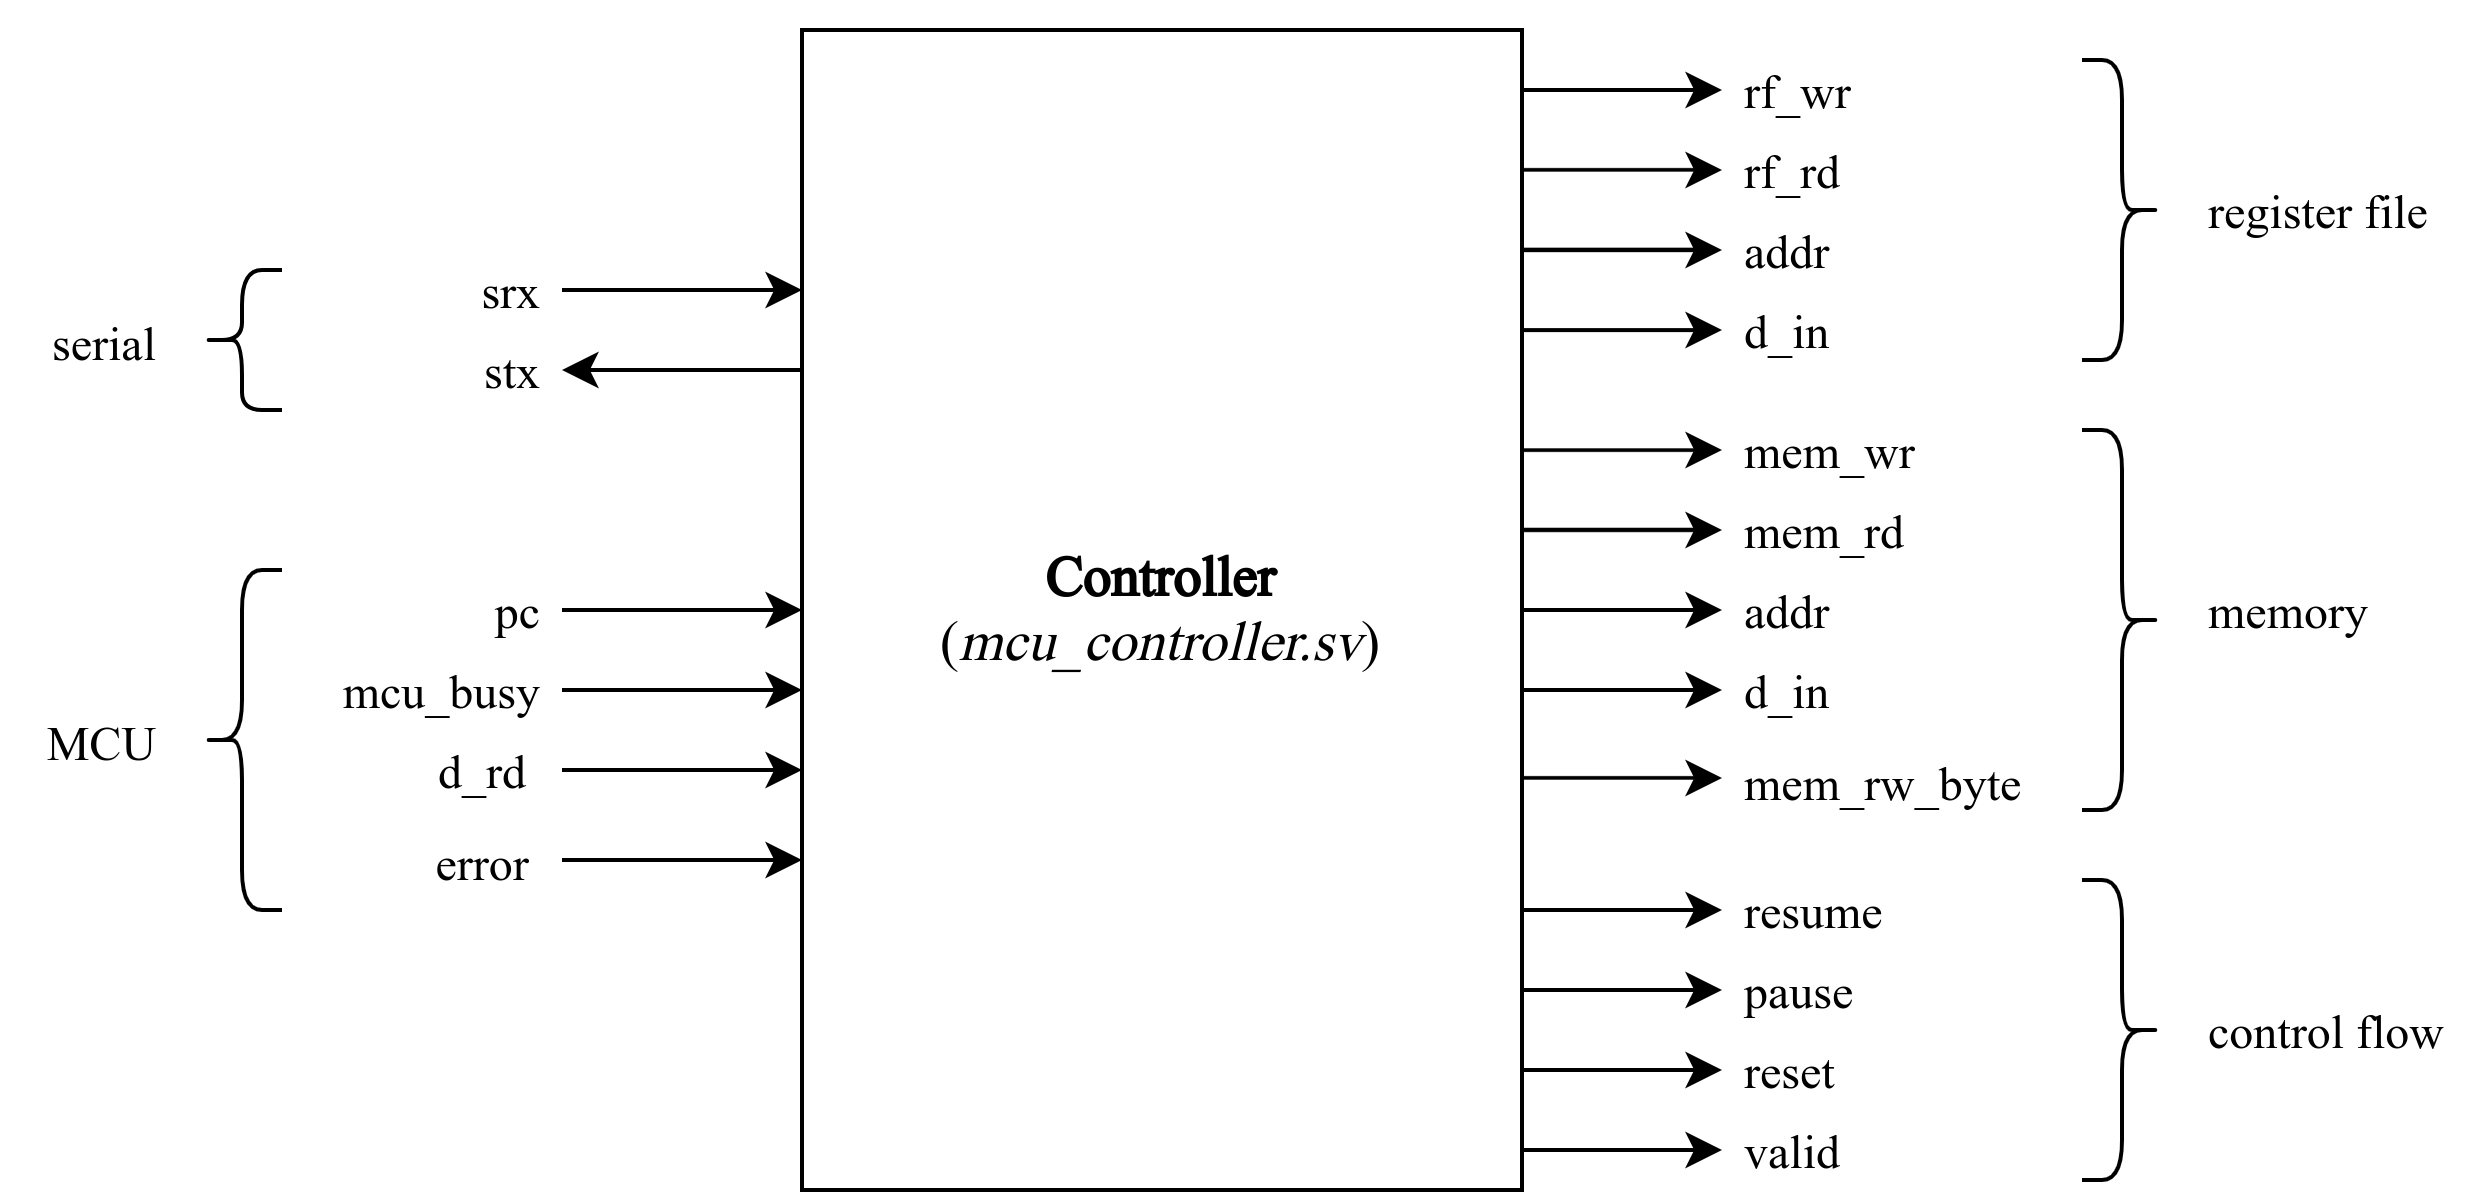
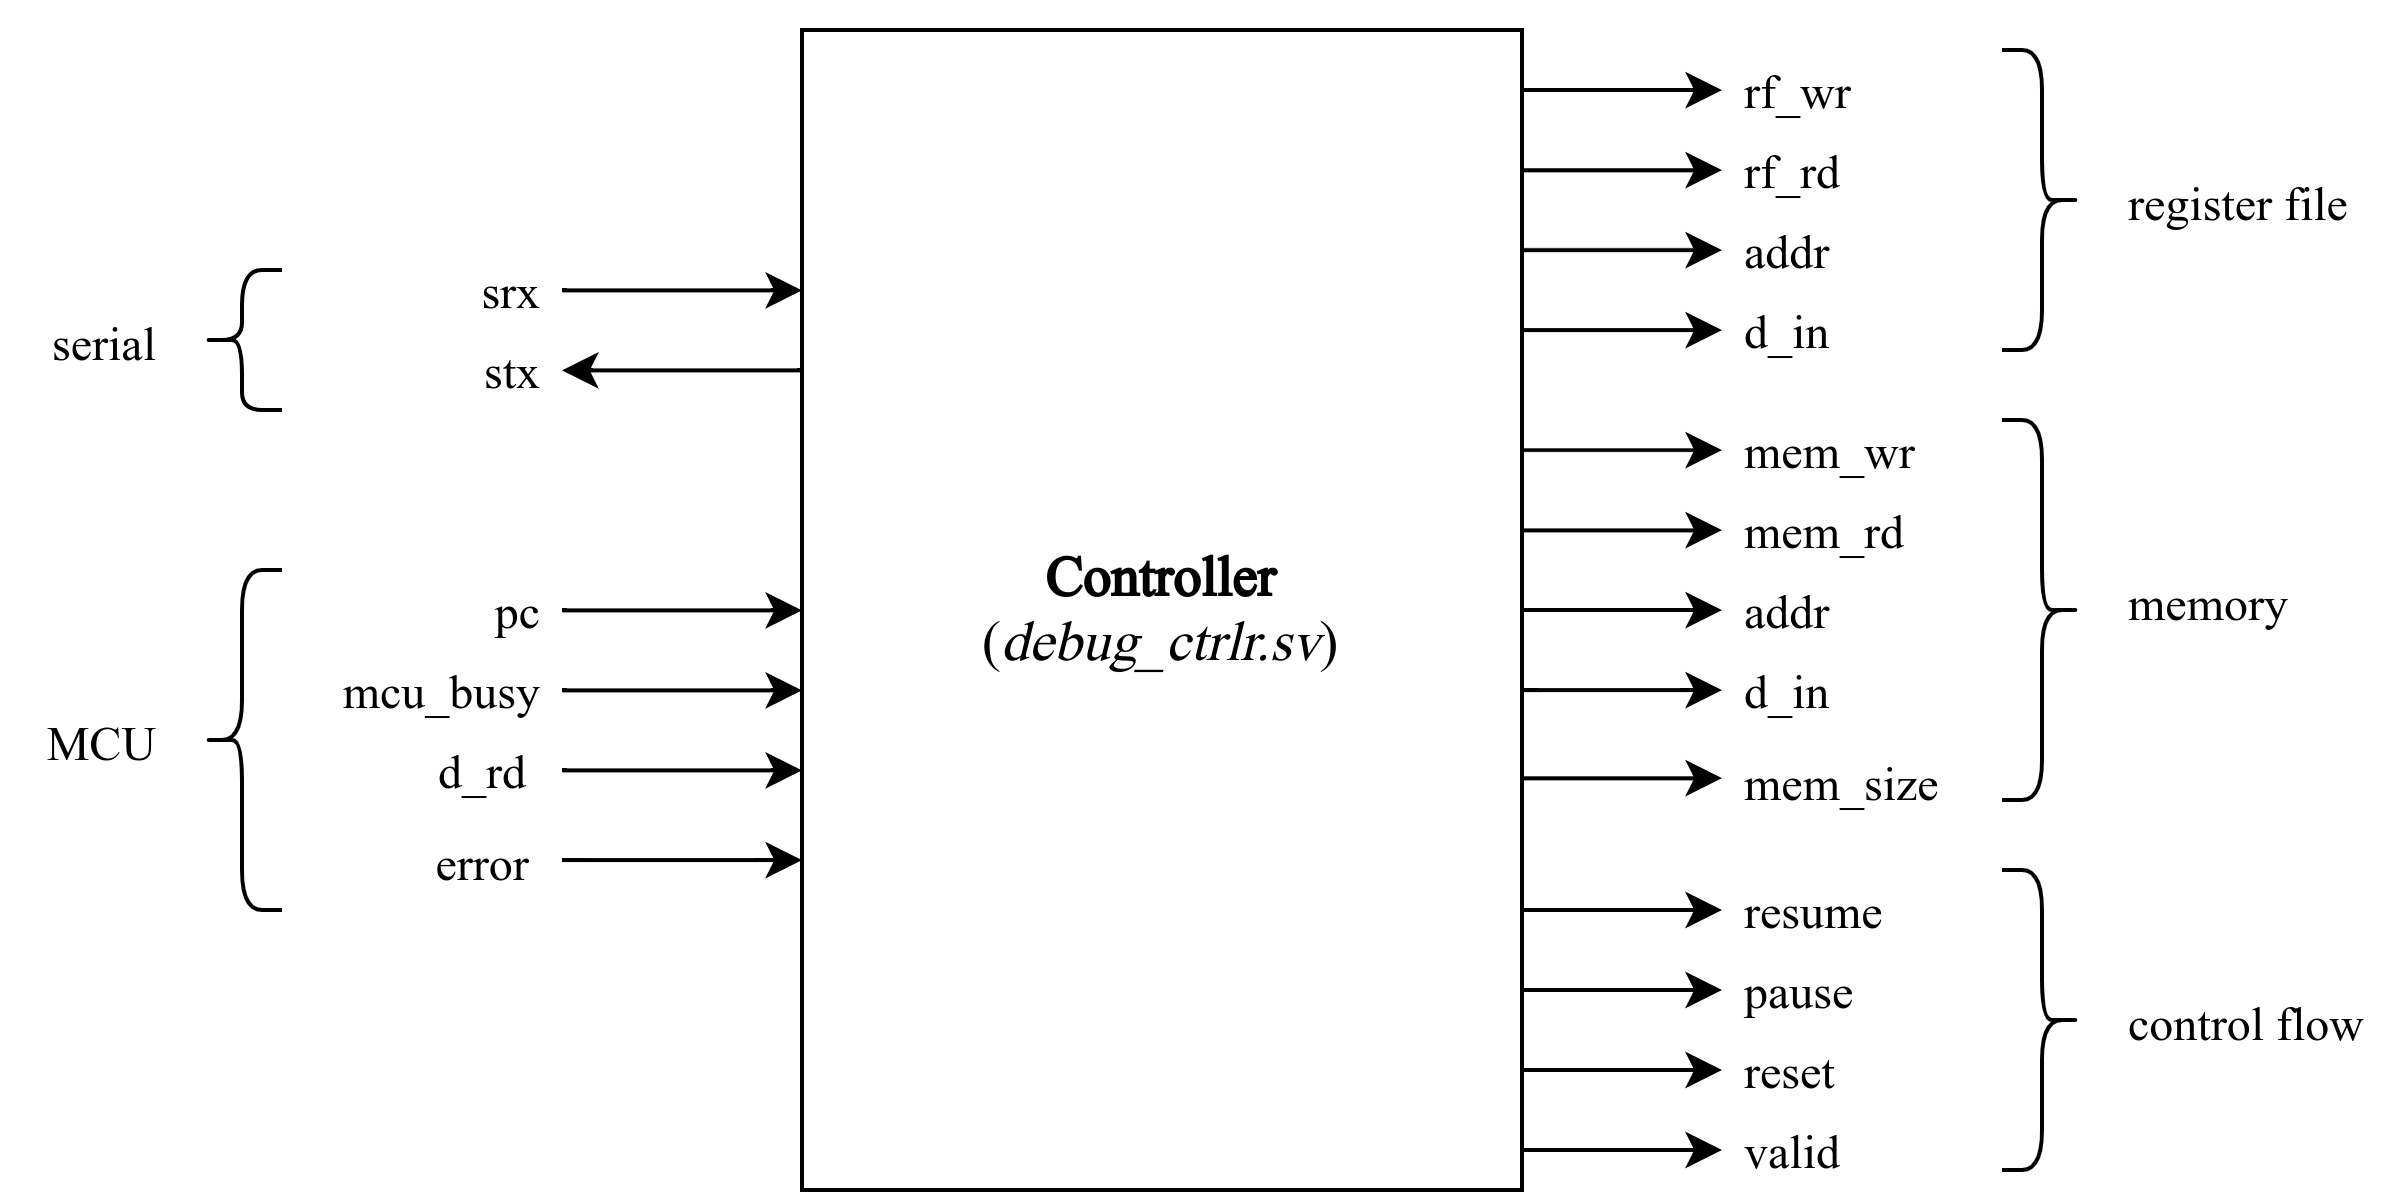
update doc for new version

diff --git a/doc/tex/protocol.tex b/doc/tex/protocol.tex
@@ -8,17 +8,18 @@
 \usepackage[hidelinks]{hyperref}
 \usepackage[left=1in,right=1in,top=1in,bottom=1in]{geometry}
 
-\title{Pipeline control protocol}
+\title{RISC-V UART Debugger Protocol}
 \author{Trevor McKay}
-\date{Summer 2020}
+\date{August 2020}
 
 \graphicspath{{./figures/}}
 
 \begin{document}
 
-\begin{center}
-    \Large\textbf{RISC-V UART Debugger\\Implementation and Protocol}
-\end{center}
+\maketitle
+\tableofcontents
+
+\newpage
 
 \section{Overview}
 
@@ -41,7 +42,7 @@ protocol.
 The module connects to the MCU, register file, and memory. Commands are recieved via serial
 and decoded within the module. The signals \emph{rf\_wr}, \emph{rf\_rd}, \emph{addr}, and
 \emph{d\_in} connect to the register file for reads and writes. The \emph{mem\_wr},
-\emph{mem\_rd}, \emph{mem\_be}, \emph{addr}, and \emph{d\_in} connect to the memory
+\emph{mem\_rd}, \emph{mem\_size}, \emph{addr}, and \emph{d\_in} connect to the memory
 for reads and writes. Additionally, \emph{resume}, \emph{pause}, and \emph{reset} control
 the flow of the MCU\@. Finally, the \emph{valid} signal determines wether or not the controller
 is issuing a command.
@@ -89,15 +90,6 @@ same time, it may be helpful to set \emph{error} and perhaps even do some handli
     The program counter should be set to zero. It is worth noting that this only resets the point of
     execution, not the contents of memory.
 
-    \item\textbf{mem\_be}\\
-    This signal will be driven high at the same time as \emph{mem\_rd} or \emph{mem\_wr}. It acts as
-    a bitmask for selecting bytes from a word. For example, if writing to address 0x14 with
-    \emph{mem\_be} as $1111_{2}$, the whole word should be written (addresses 0x14--0x17).
-    Reads and writes can be performed at the byte level by using the
-    bitmask. For example, accessing word 0x14 with \emph{mem\_be} as $0010_{2}$ will
-    only write the third byte in the word (address 0x16).
-
-    \newpage
     \item\textbf{mem\_rd}\\
     The MCU should read the memory at \emph{addr}. The \emph{mcu\_busy} should go
      high at or before the next positive clock edge until the memory read is complete. The
@@ -116,6 +108,7 @@ same time, it may be helpful to set \emph{error} and perhaps even do some handli
                valid:  ________|¯|________________________
         \end{verbatim}
 
+    \newpage
     \item\textbf{mem\_wr}\\
     The MCU should write the data \emph{d\_in} to the memory at \emph{addr}. The \emph{mcu\_busy}
     should go high at or before the next positive clock edge until the memory write is complete.
@@ -172,6 +165,7 @@ same time, it may be helpful to set \emph{error} and perhaps even do some handli
 
 \end{enumerate}
 
+\newpage
 \section{Implementation suggestions}
 There is no right or wrong way to implement this protocol, as long as the MCU responds correctly.
 However, there are some ways to make this easier.
